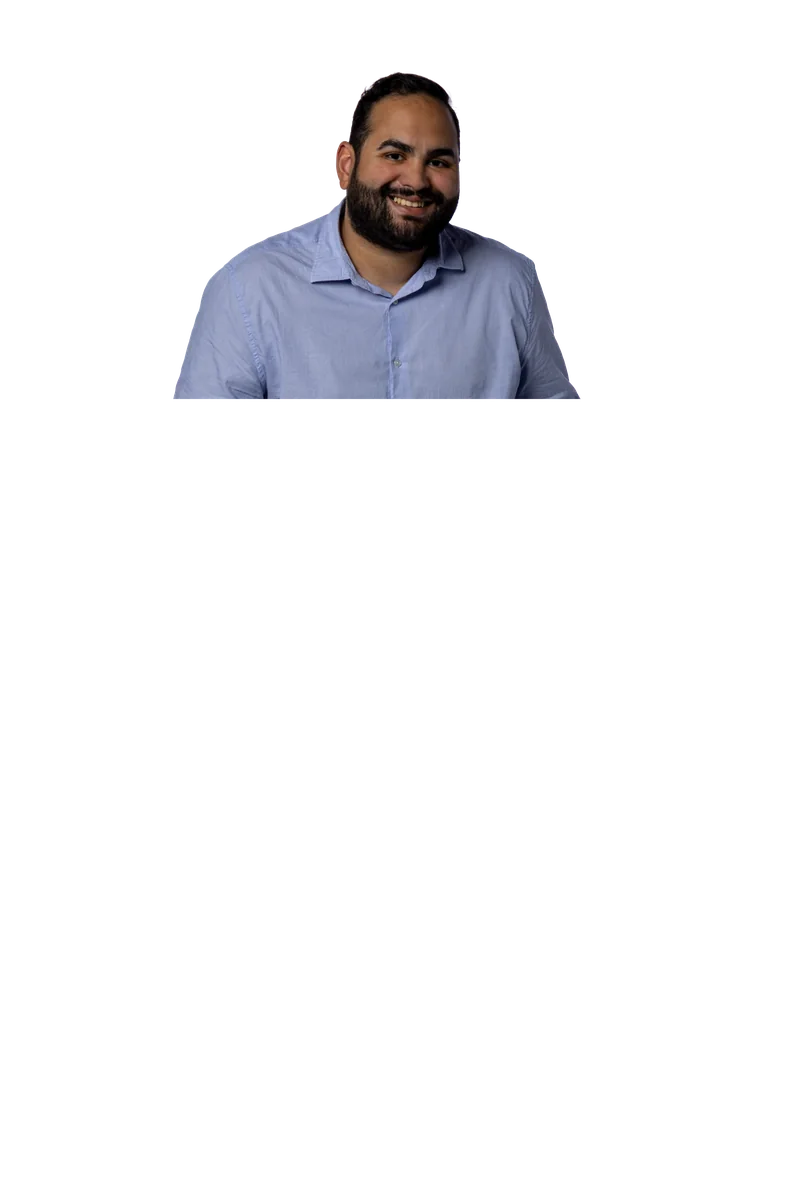
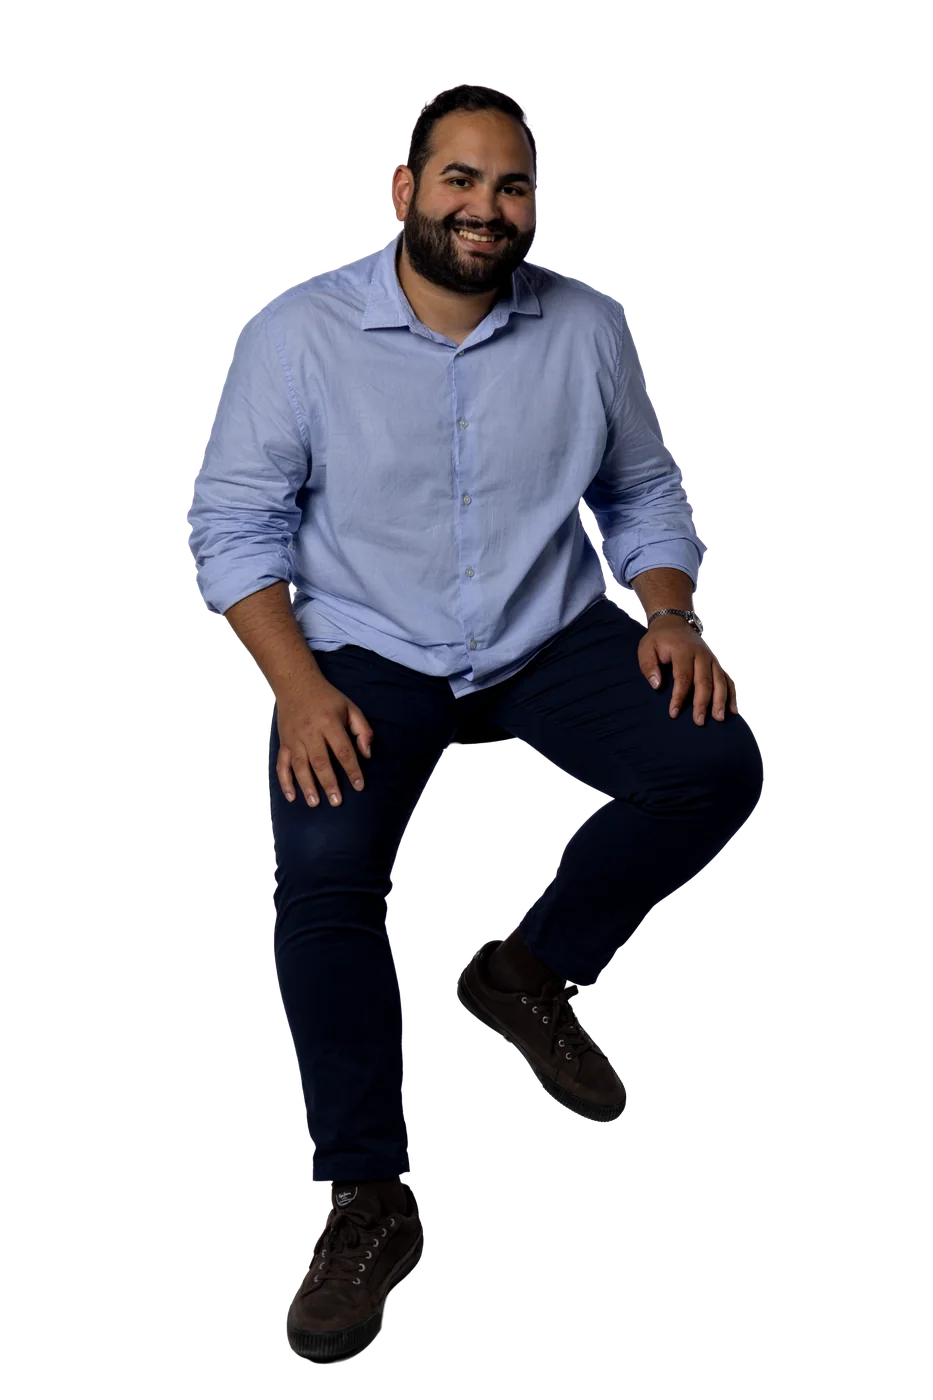
fotos eddy y manu

Changed region(s): [[0.1875, 0.3083, 0.8438, 0.9867]]

diff --git a/careers.html b/careers.html
@@ -175,7 +175,7 @@
 
     <div class="t-grid">
       <div class="t-card reveal reveal-delay-1">
-        <div class="t-photo"><img src="media/eddy 1.png" alt="Eddy" loading="lazy" /></div>
+        <div class="t-photo"><img src="media/eddy.webp" alt="Eddy" loading="lazy" /></div>
         <div class="t-body">
           <span class="t-mark">“</span>
           <p data-i18n="careers.q1">En Tessera encontré un equipo donde la confianza no se pide, se da desde el primer día. Las decisiones se toman con criterio y siempre sientes que tu opinión cuenta. Aquí crecer no es una promesa, es parte del día a día.</p>
@@ -186,13 +186,13 @@
         </div>
       </div>
       <div class="t-card reveal reveal-delay-2">
-        <div class="t-photo"><img src="media/edu.webp" alt="Edu" loading="lazy" /></div>
+        <div class="t-photo"><img src="media/manu.webp" alt="Manu" loading="lazy" /></div>
         <div class="t-body">
           <span class="t-mark">“</span>
           <p data-i18n="careers.q2">Lo que más valoro es el pensamiento estratégico que impregna cada decisión. No hay urgencia gratuita ni ruido: se reflexiona, se consulta y se actúa con sentido. Un equipo que te desafía a ser mejor cada semana.</p>
           <div class="t-author">
-            <div class="t-name">Edu</div>
-            <div class="t-role">Founder &amp; Partner</div>
+            <div class="t-name">Manu</div>
+            <div class="t-role">Partner</div>
           </div>
         </div>
       </div>